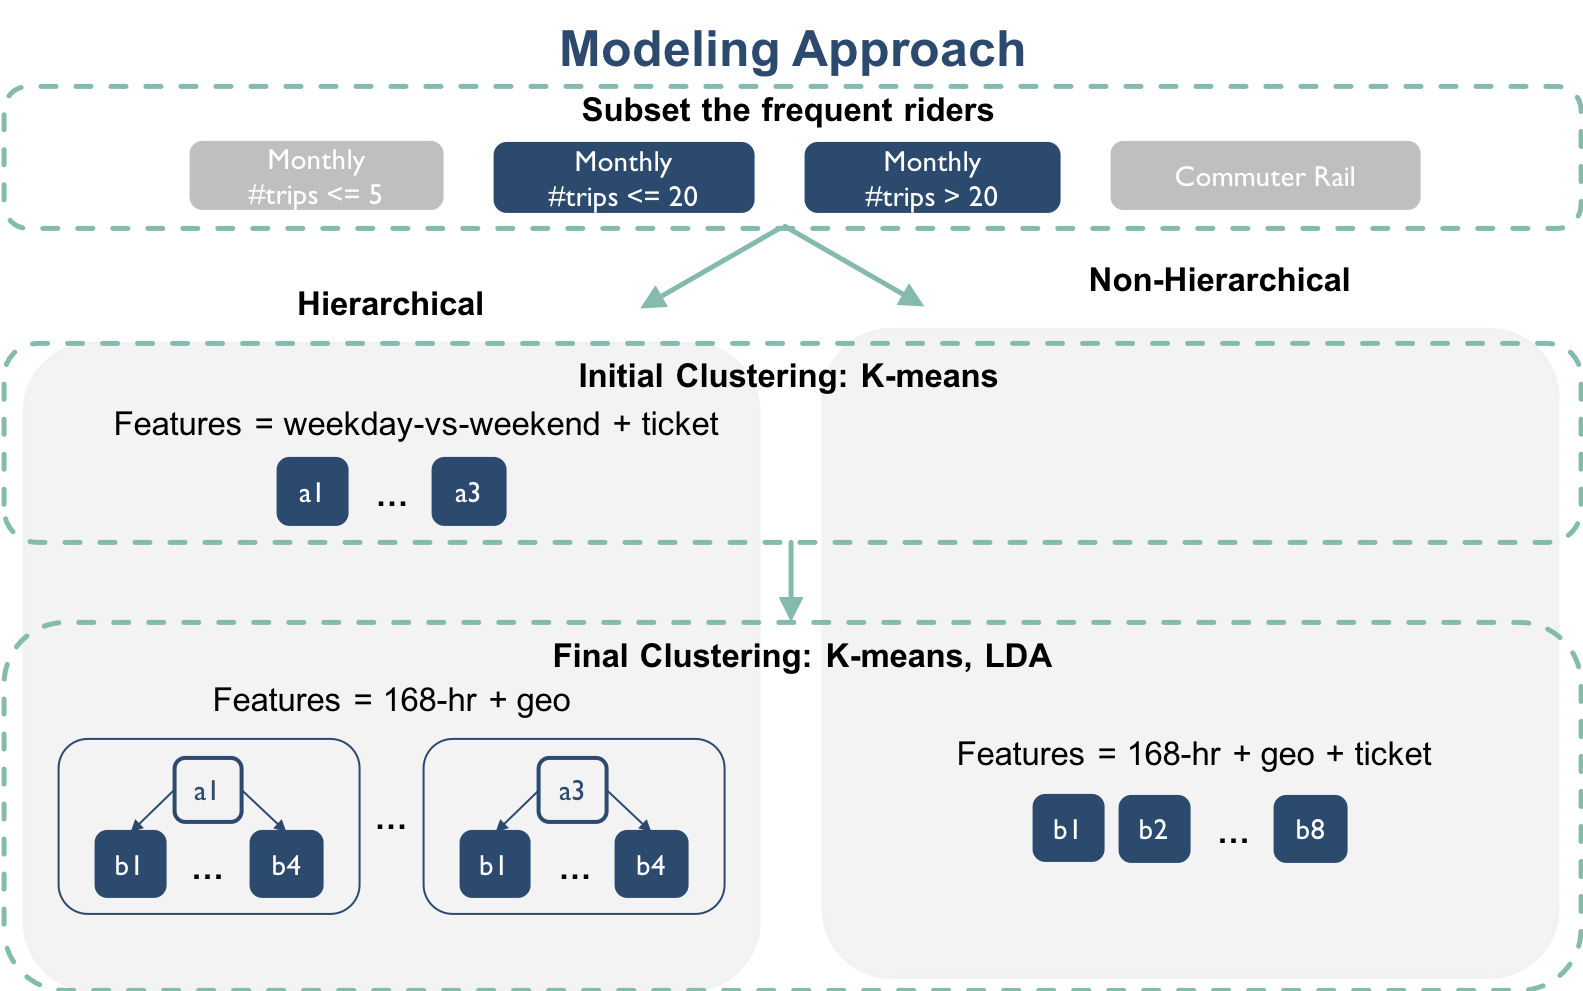
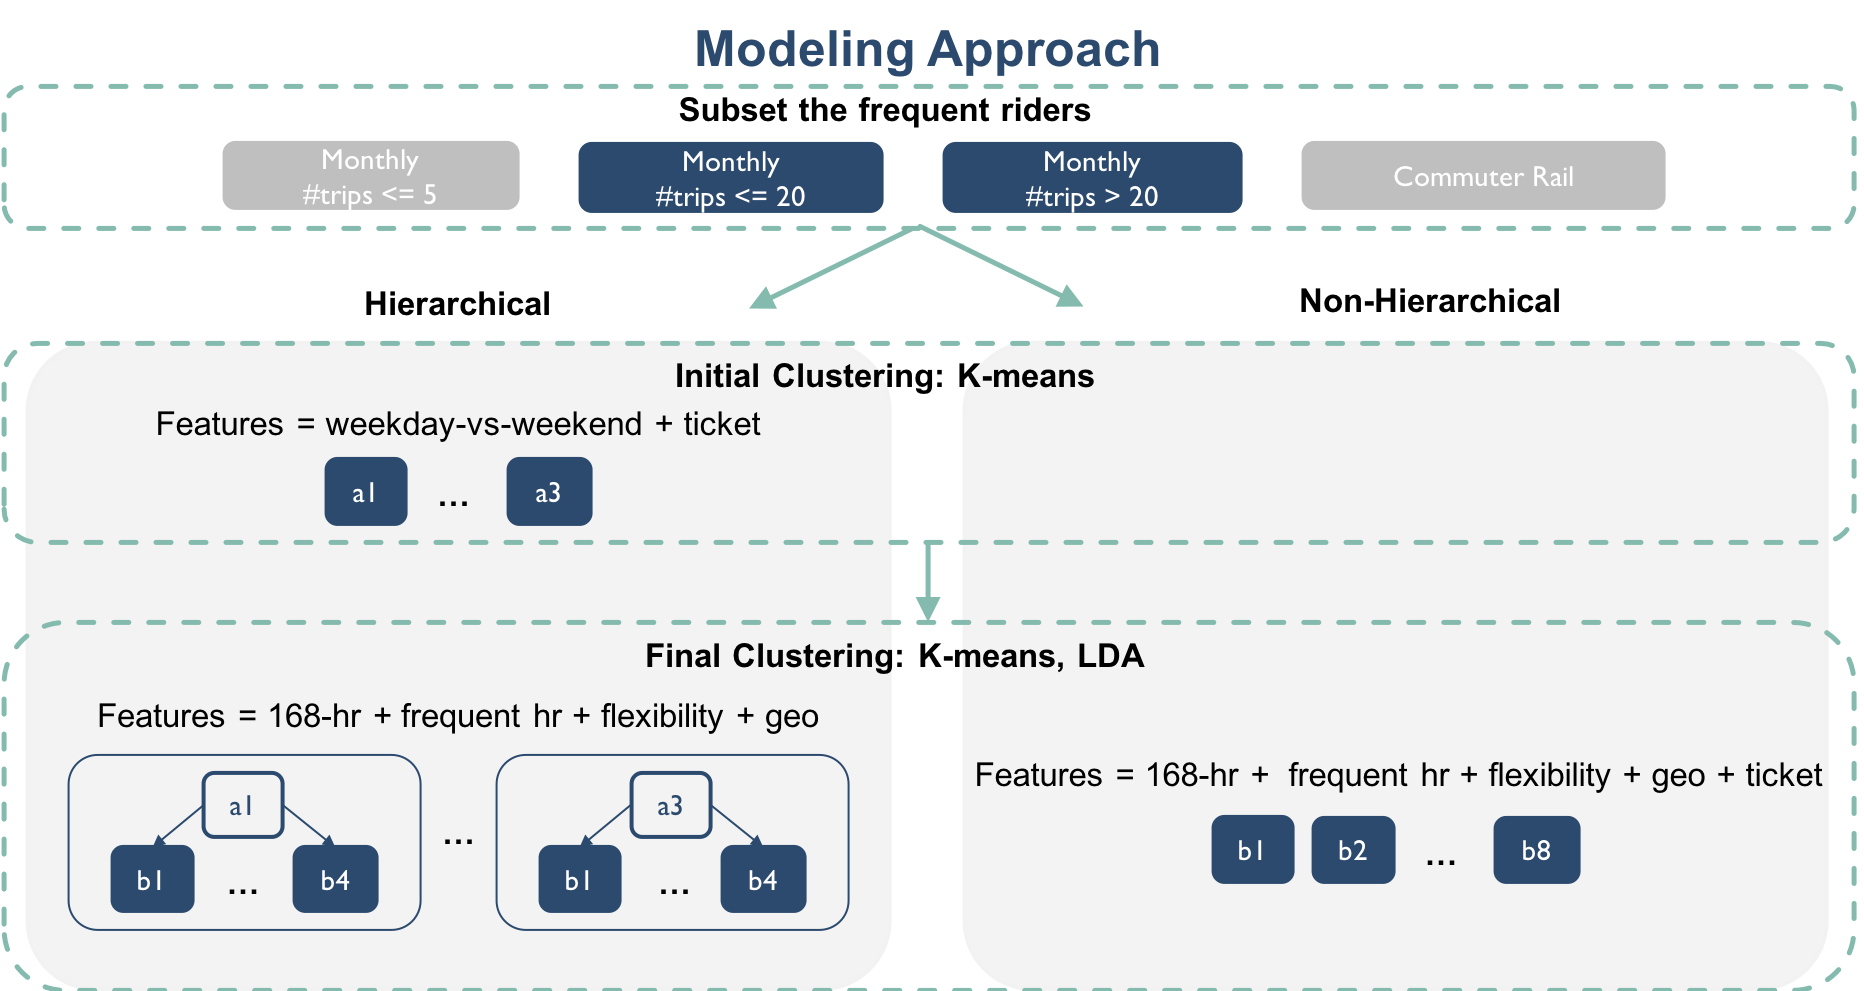
updated segmentation report

diff --git a/segmentation.md b/segmentation.md
@@ -8,22 +8,43 @@ title: Rider Segmentation
 *  
 {: toc}
 
-## Segmentation Algorithms
-We use 2 unsupervised clustering algorithms,  [Latent Dirichlet Allocation (LDA)](https://en.wikipedia.org/wiki/Latent_Dirichlet_allocation) and [K-means](https://en.wikipedia.org/wiki/K-means_clustering). Referring to scikit-learn's documentation,
-[LDA](http://scikit-learn.org/stable/modules/generated/sklearn.decomposition.LatentDirichletAllocation.html) learns a mixture distribution of K topics (K is set as a priori) from a set of documents, where a document in our case represent an individual rider and a topic represents a rider-type (e.g., more/less flexible commuter, weekend rider, random rider and etc.). With LDA, each rider is modeled as a distribution of probabilities for being in each rider-type. [K-means](http://scikit-learn.org/stable/modules/generated/sklearn.cluster.KMeans.html), by contrast, does not model a rider as a full distribution of rider-types, instead it directly partitions all the riders into K types.
+## Segmentation Pipeline
 
-## Clustering Pipeline
+Our overall segmentation pipeline is summarized in Figure 1.
 
 | <img src="img/segmentation_model.png" width="1000">|
 |:--:|
-| ***Figure 1: Segmentation Modeling Pipeline*** |
+| ***Figure 1: Segmentation Pipeline***|
 
-For the general clustering procedure (Figure 1), we applied a hierarchical version and a non-hierarchical version.
+Based on feedback from the client, we first filtered out riders with a commuter rail pass (except for Zone 1a) and riders who ride fewer than 5 trips per month. The rationale is that there is not enough information for performing inference on these riders based on the current fare transaction data collection system. 
 
-In the **hierarchical** pipeline, we first used K-means to cluster based on “higher-level” usage patterns, i.e. the total number of trips taken over weekends versus during weekdays and ticket purchasing patterns; the resulting clusters are then clustered again using either algorithm based on more specific features i.e. usage in individual hours during the week and usage in each zip code. In the **non-hierarchical** pipeline, the riders are directly clustered based on the 168-hour temporal, geographical and ticket purchasing patterns.
+Recall that our feature sets are:
+
+- 168 Hourly Temporal Patterns: The number of trips each rider took in each hour (0:00 to 23:00) of each day of week (Mon to Sun), a 168-dimensional vector.
+- Weekend-vs-Weekday: the total number of trips each rider took on weekday and on weekends.
+- Most Frequent Trip Hours: The top 2 hours in which each rider takes most trips during weekdays, and the top 1 hour over weekends. 
+- Time Flexibility Scores: The maxes of the weekday and weekend ridership distributions.
+- Geographical Patterns by Zip Codes: The number of trips each rider took in each zip code.
+- Ticket Purchasing Patterns: The number of different service-brands, tariff (e.g., 7-day pass, monthly pass, Pay-as-you-go) and user-type associated with each rider ID.
+
+For feature details, refer to [Feature Extraction](https://ac297r-mbta-2018.github.io/Final-Report/feature.html).
+
+We implemented two clustering pipelines:
+- The **Non-hierarchical** pipeline is the more conventional pipeline where the user-specified algorithm is directly applied to a set of features. In this case, the set of features is 168 hourly temporal patterns, most frequent trip hours, time flexibility scores, geographical patterns by zip codes and ticket purchasing patterns.
+- The **Hierarchical** pipeline is a custom pipeline where we first used K-means to cluster based on “higher-level” usage patterns, which we defined as the set of weekend-vs-weekday and ticket purchasing patterns (The initial clsutering step). The resulting clusters are then clustered again using user-specified algorithm based on more specific features, which we defined as the set of 168 hourly temporal patterns, most frequent trip hours, time flexibility scores and geographical patterns by zip codes (The final clustering step).
+
+Note: At each clustering step (initial and final), an optimal number of cluster is found using the Calinski and Harabaz score, which is defined as the ratio between the within-cluster dispersion and the between-cluster dispersion. For more information on this scoring criterion, please consult the [Sklearn documentation on Calinski Harabaz Score](http://scikit-learn.org/stable/modules/generated/sklearn.metrics.calinski_harabaz_score.html).
+
+
+## User-Specified Algorithm Options
+
+We implemented two unsupervised clustering algorithms for the user to choose and compare:
+
+- Latent Dirichlet Allocation (LDA) - Briefly, LDA learns a mixture distribution of K topics (K is set as a priori) from a set of documents, where a document in our case represent an individual rider and a topic represents a rider-type (e.g., more/less flexible commuter, weekend rider, random rider and etc.). With LDA, each rider is modeled as a distribution of probabilities for being in each rider-type. For more information, refer to [Sklearn documentation on LDA](https://en.wikipedia.org/wiki/Latent_Dirichlet_allocation).
+- K-means - Briefly, K-means clusters data by trying to separate samples in n groups of equal variance, minimizing a criterion known as the inertia or within-cluster sum-of-squares. For more information, refer to [Sklearn documentaiton on K-means](https://en.wikipedia.org/wiki/K-means_clustering).
+
 
 ## Summary Findings
 
-Comparing LDA versus K-means, we found that using LDA is more time-efficient and produces clusters with better size stability and more interesting subtle differences than K-means. K-means tends to pick up small rider segments that have very distinct usage patterns. We suspect this to be caused by the linear boundary of K-means that partitions the outlier rider group into an individual cluster.
-
-Comparing the hierarchical versus the non-hierarchical pipeline, we were able to obtain more segments with more subtle differences across different segments from the hierarchical structure.
+- **Hierarchical vs. Non-Hierarchical Pipline**: The hierarchical pipeline appears to have 2 advantages over the non-hierarchical pipeline - 1) More time efficient; and 2) Able to find clusters with more subtle differences
+- **LDA vs. K-means**: LDA produces clusters with better size stability and more interesting subtle differences than K-means. K-means tends to pick up very small rider segments that have very distinct usage patterns.
